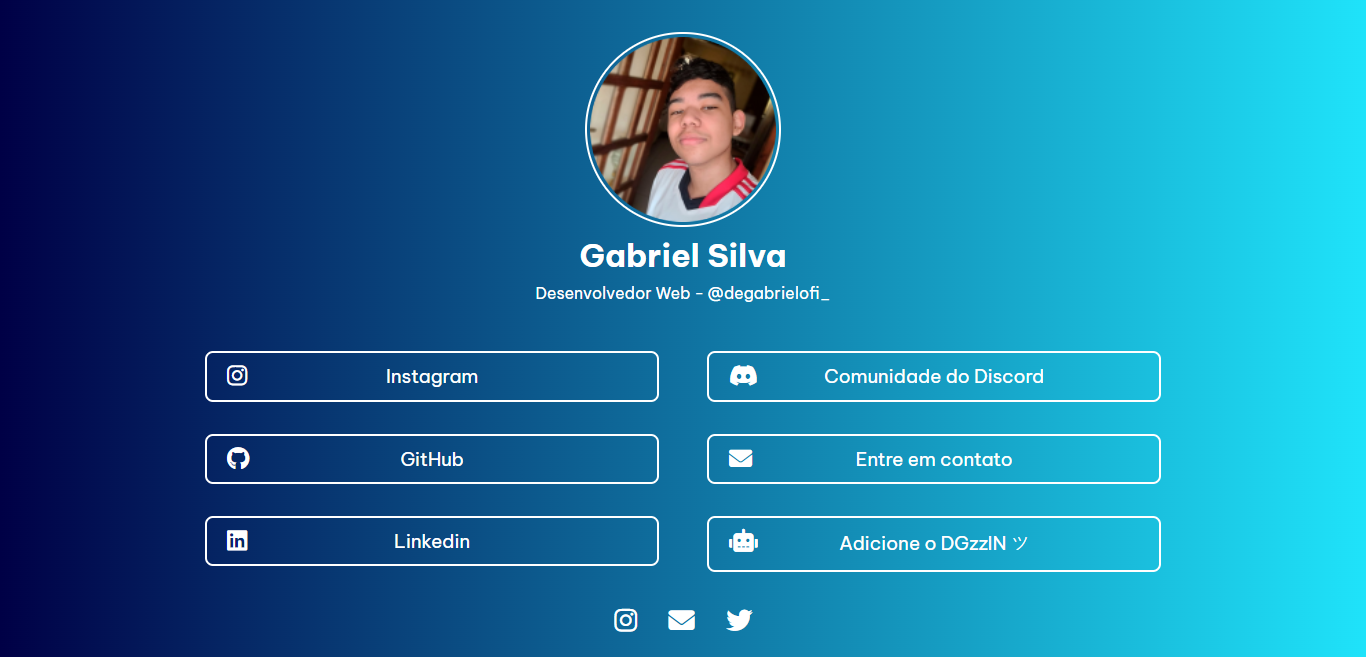
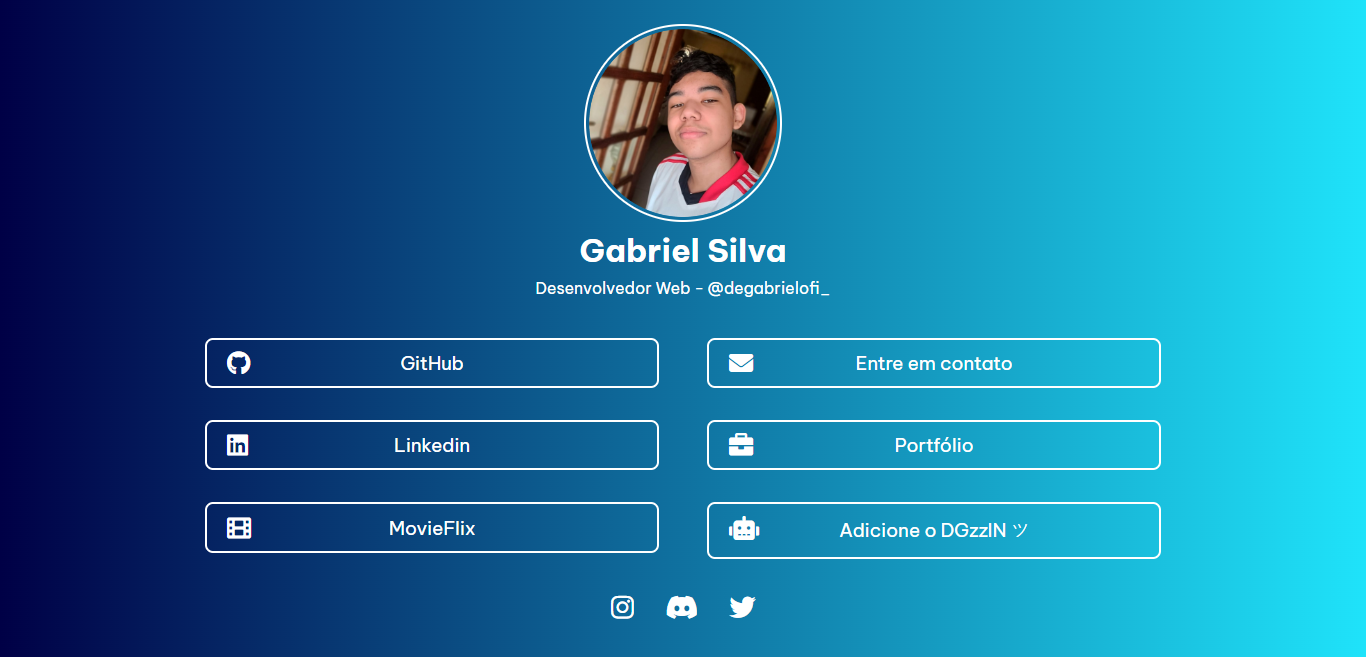
Links Úteis | @degabrielofi_

diff --git a/src/Home/index.jsx b/src/Home/index.jsx
@@ -18,11 +18,11 @@ const Home = () => {
             <Container>
                 <div className="my-links">
                     <div className="link">
-                        <a href="https://www.instagram.com/degabrielofi_/" target="_black"><div className="link-a"><i className="fab fa-instagram"></i> <h3>Instagram</h3></div></a>
-                        <a href="https://discord.com/invite/TNMzEFyxA4" target="_black"><div className="link-a"><i className="fab fa-discord"></i> <h3>Comunidade do Discord</h3></div></a>
                         <a href="https://github.com/degabrielofi" target="_black"><div className="link-a"><i className="fab fa-github"></i> <h3>GitHub</h3></div></a>
                         <a href="mailto:contatodegabrielofi@gmail.com" target="_black"><div className="link-a"><i className="fas fa-envelope"></i> <h3>Entre em contato</h3></div></a>
                         <a href="https://www.linkedin.com/in/degabrielofi/" target="_black"><div className="link-a"><i className="fab fa-linkedin"></i> <h3>Linkedin</h3></div></a>
+                        <a href="https://degabrielofi.vercel.app/" target="_black"><div className="link-a"><i className="fas fa-briefcase"></i> <h3>Portfólio</h3></div></a>
+                        <a href="https://degabrielofimovieflix.netlify.app/" target="_black"><div className="link-a"><i className="fas fa-film"></i> <h3>MovieFlix</h3></div></a>
                         <a href="https://dgzzinbot.netlify.app/" target="_black"><div className="link-a"><i className='fas fa-robot	'></i><h3>Adicione o DGzzIN ツ</h3></div></a>
                     </div>
                 </div>
@@ -31,7 +31,7 @@ const Home = () => {
             <Links>
                 <div className='sci'>
                     <a href="https://www.instagram.com/degabrielofi_/" target="_black"><div className="insta"><i className="fab fa-instagram"></i></div></a>
-                    <a href="mailto:contatodegabrielofi@gmail.com" target="_black"><div className="gmail"><i className='fas fa-envelope'></i></div></a>
+                    <a href="https://discord.com/invite/TNMzEFyxA4" target="_black"><div className="discord"><i className='fab fa-discord'></i></div></a>
                     <a href="https://www.twitter.com/degabrielofi" target="_black"><div className="twitter"><i className="fab fa-twitter"></i></div></a>
                 </div>
             </Links>

diff --git a/src/Home/style.jsx b/src/Home/style.jsx
@@ -7,7 +7,7 @@ export const Menu = styled.div`
 font-weight: 700;  
 display: flex;
 justify-content: center;
-padding: 2rem;
+padding: 1.5rem;
 align-items: center;  
 flex-direction: column;
 color: #fff;
@@ -22,7 +22,7 @@ width: 15%;
 
 .img-logo{
 
-border: 2px solid white;
+border: 2px solid #fff;
 border-radius: 50%;
 padding: 3px;
 transition: 0.3s;
@@ -121,7 +121,7 @@ border: 2px solid #111;
 position: absolute;
 left: 20px;
 line-height: 1;
-font-size: 23px;
+font-size: 1.5rem;
 
 }
 
@@ -130,14 +130,6 @@ font-size: 23px;
 font-weight: normal;
 
 }
-
-.link .link-a .icon {
-
-width: 10px;
-color: #fff;
-
-}
-
 
 .link .link-a .icon_bot:hover {
 
@@ -207,12 +199,6 @@ transition: 0.5s all;
 
 }
 
-.sci a:not(:last-child) {
-
-margin-bottom: 15px;
-
-}
-
 .sci a:hover {
 
 transform: scale(1.3);
@@ -234,10 +220,10 @@ transition: all 0.5s;
 
 }
 
-.sci .gmail:hover{
+.sci .discord:hover{
 
-    color: #dc4c41;
-    transition: all 0.5s;
+   color:#404eed;
+   transition: all 0.5s;
 
 }
 
